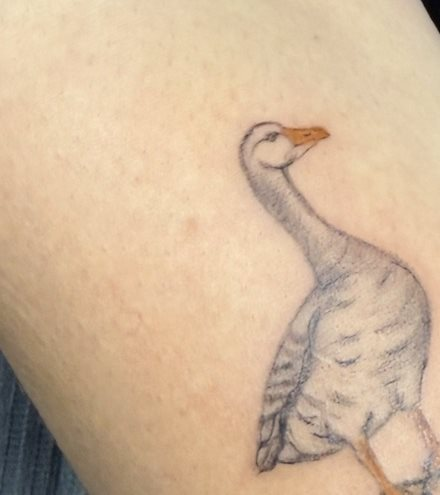
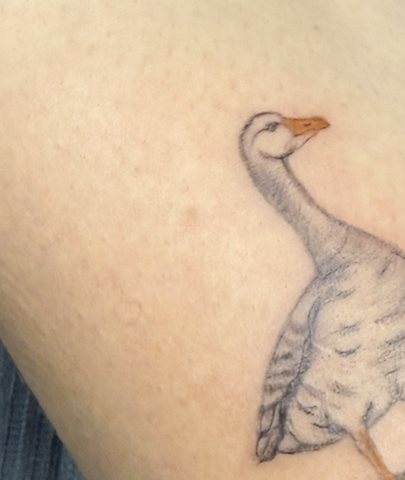
Use plain rounded-rect frames for real portfolio photos instead of organic blob crops

diff --git a/wwwroot/css/app.css b/wwwroot/css/app.css
@@ -788,6 +788,11 @@ button {
     border-radius: 20px;
 }
 
+.portfolio-photo {
+    width: min(320px, 82vw);
+    border-radius: 18px;
+}
+
     .photo-frame-clip {
         width: 100%;
         height: 100%;
